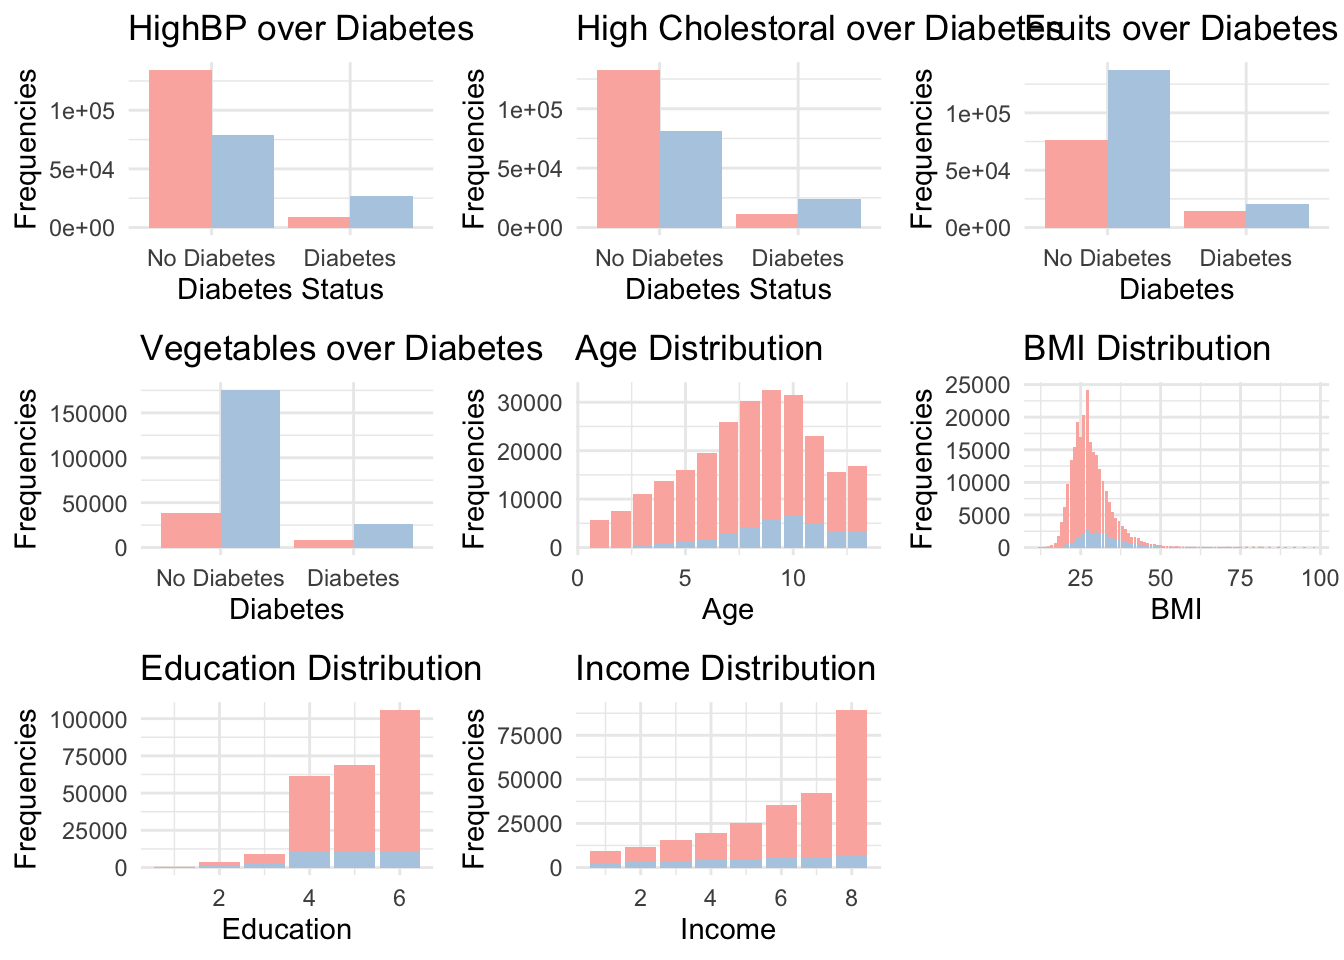
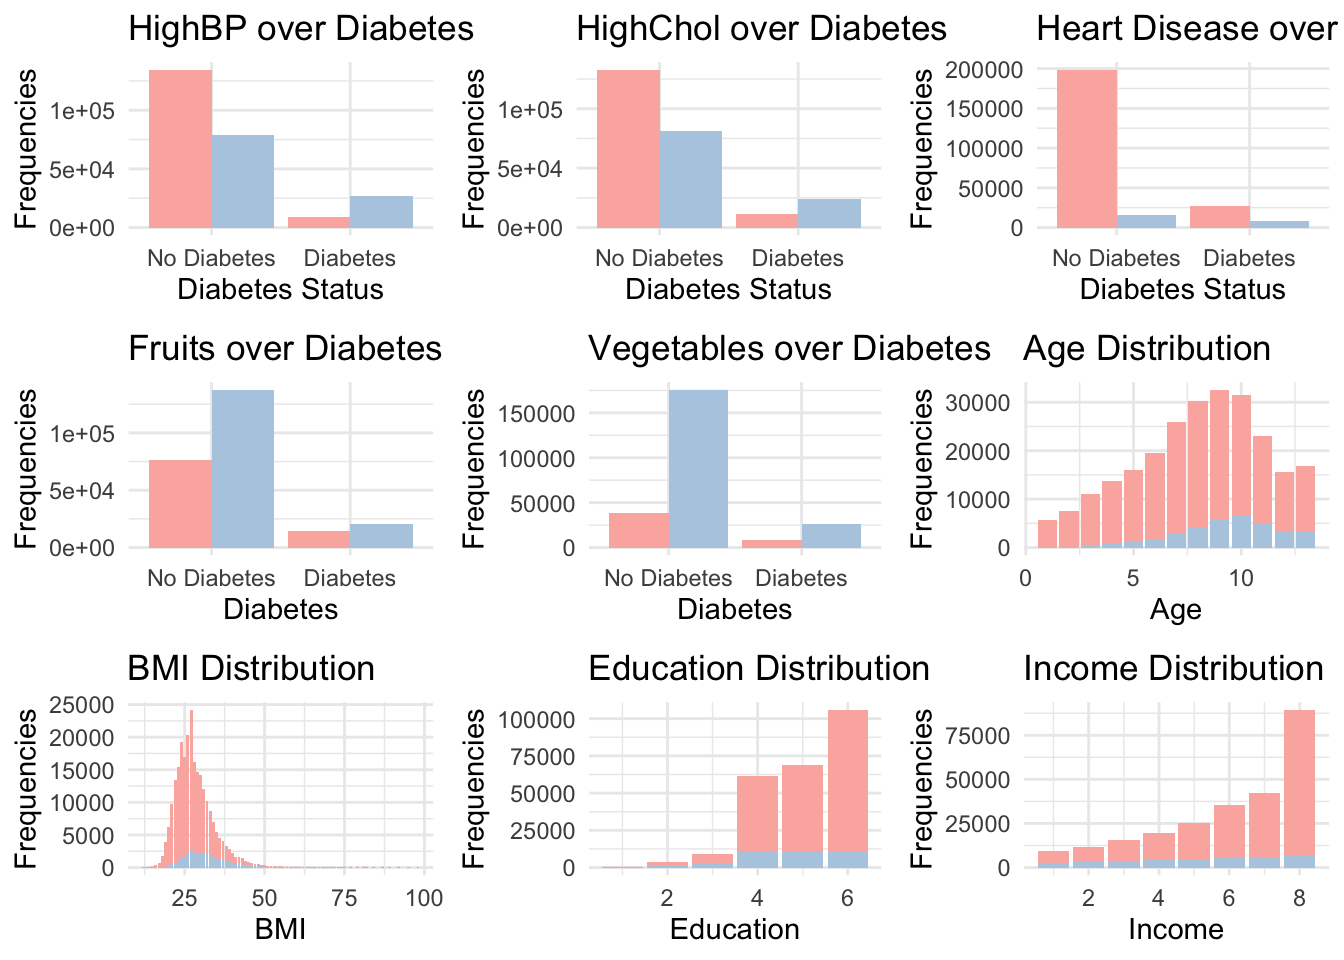
newly added 11 graphs by christine

diff --git a/EDA.html b/EDA.html
@@ -598,7 +598,7 @@ HighBP_dist</code></pre>
   scale_fill_brewer(palette = &#39;Pastel1&#39;) +
   ylab(&quot;Frequencies&quot;) +
   xlab(&quot;Diabetes Status&quot;) +
-  ggtitle(&quot;High Cholestoral over Diabetes&quot;) +
+  ggtitle(&quot;HighChol over Diabetes&quot;) +
   theme_minimal()
 
 HighChol_dist</code></pre>
@@ -626,7 +626,7 @@ BMI_dist</code></pre>
   scale_fill_brewer(palette = &#39;Pastel1&#39;) +
   ylab(&quot;Frequencies&quot;) +
   xlab(&quot;Diabetes Status&quot;) +
-  ggtitle(&quot;Heart Disease or Attack over Diabetes Status&quot;) +
+  ggtitle(&quot;Heart Disease over Diabetes&quot;) +
   theme_minimal()
 
 Heartdisease_dist</code></pre>
@@ -730,6 +730,7 @@ Veggies_dist</code></pre>
 <pre class="r"><code>plots1 = plot_grid(
   HighBP_dist + theme(legend.position=&quot;none&quot;),
   HighChol_dist + theme(legend.position=&quot;none&quot;), 
+  Heartdisease_dist + theme(legend.position=&quot;none&quot;),
   Fruits_dist + theme(legend.position=&quot;none&quot;), 
   Veggies_dist + theme(legend.position=&quot;none&quot;),
   Age_dist + theme(legend.position=&quot;none&quot;),
